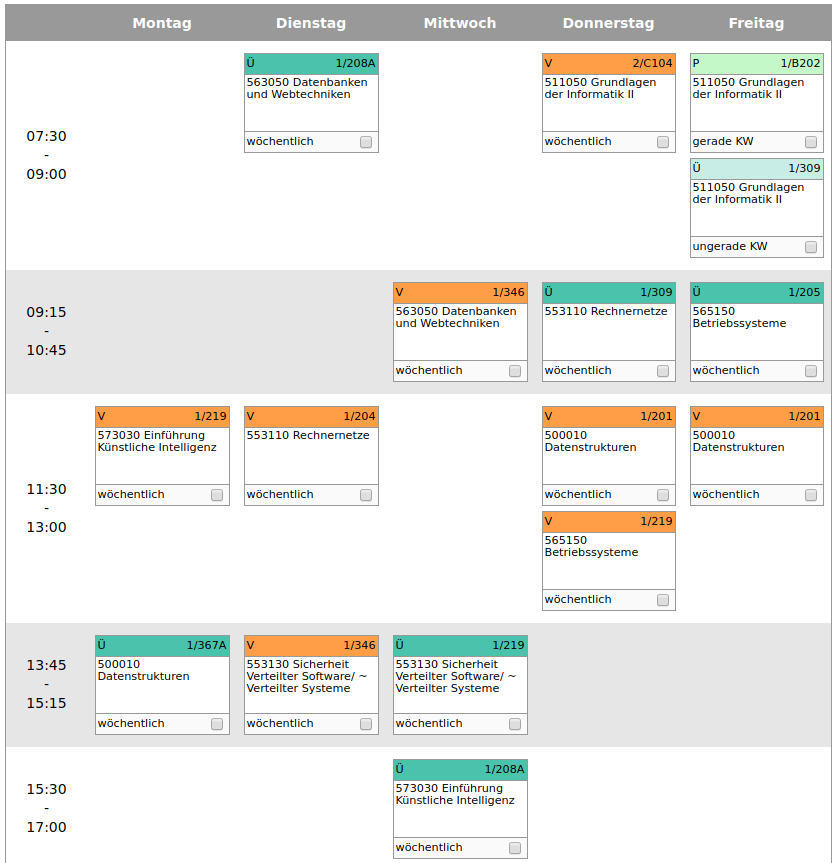
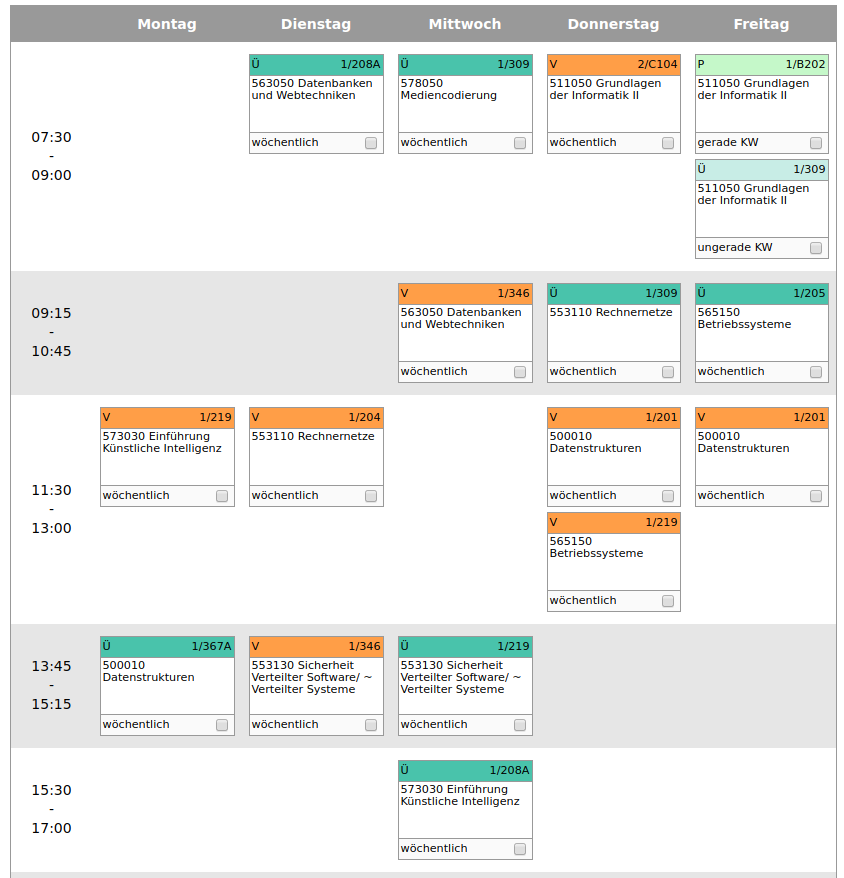
Add missing Media Encoding class

diff --git a/docs/uni/org/sose19/index.html b/docs/uni/org/sose19/index.html
@@ -94,7 +94,13 @@ End of central examination period: 10.08.2019</p>
 <li><a href="https://bildungsportal.sachsen.de/opal/auth/RepositoryEntry/19946340368/CourseNode/86516925533323">Tutorial Page</a></li>
 <li>Exam type: written (might be open-book)</li>
 </ul></li>
-<li>Databases &amp; Webtechniques
+<li>Media Encoding
+
+<ul>
+<li><a href="https://bildungsportal.sachsen.de/opal/auth/RepositoryEntry/3190226946?4">Course Homepage</a></li>
+<li>Exam type: written</li>
+</ul></li>
+<li>Databases &amp; Webtechnology
 
 <ul>
 <li><a href="https://www.tu-chemnitz.de/informatik/DVS/lehre/DBW/">Material</a></li>
@@ -120,6 +126,10 @@ End of central examination period: 10.08.2019</p>
 <p>Weekly calendar may be viewed <a href="https://www.tu-chemnitz.de/verwaltung/vlvz/meinplan/view/calendar">here.</a>
 Alternatively here is an image:
 <img src="/knowledge-database/images/week-schedule-ss19.png" alt="" /></p>
+
+<ul>
+<li>don&rsquo;t forget that there&rsquo;s &ldquo;Media Encoding&rdquo; which is an online lecture.</li>
+</ul>
 
     </div>
     <div class="post-footer">

diff --git a/content/uni/org/sose19.md b/content/uni/org/sose19.md
@@ -2,7 +2,7 @@
 title = "Course Information Summer 19"
 author = ["eo shiru"]
 date = 2019-04-01
-lastmod = 2019-04-06T14:55:40+02:00
+lastmod = 2019-04-07T12:14:12+02:00
 tags = ["uni", "organizational"]
 draft = false
 +++
@@ -36,7 +36,10 @@ Re-matriculation Period: 03.06. - 13.09.2019
     -   [Course Homepage](https://vsr.informatik.tu-chemnitz.de/edu/2019/svs/)
     -   [Tutorial Page](https://bildungsportal.sachsen.de/opal/auth/RepositoryEntry/19946340368/CourseNode/86516925533323)
     -   Exam type: written (might be open-book)
--   Databases & Webtechniques
+-   Media Encoding
+    -   [Course Homepage](https://bildungsportal.sachsen.de/opal/auth/RepositoryEntry/3190226946?4)
+    -   Exam type: written
+-   Databases & Webtechnology
     -   [Material](https://www.tu-chemnitz.de/informatik/DVS/lehre/DBW/)
     -   Exam type: project until 23.06 & presentation until 12.07
 -   Computer Networks
@@ -53,3 +56,5 @@ Re-matriculation Period: 03.06. - 13.09.2019
 Weekly calendar may be viewed [here.](https://www.tu-chemnitz.de/verwaltung/vlvz/meinplan/view/calendar)
 Alternatively here is an image:
 ![](/knowledge-database/images/week-schedule-ss19.png)
+
+-   don't forget that there's "Media Encoding" which is an online lecture.
